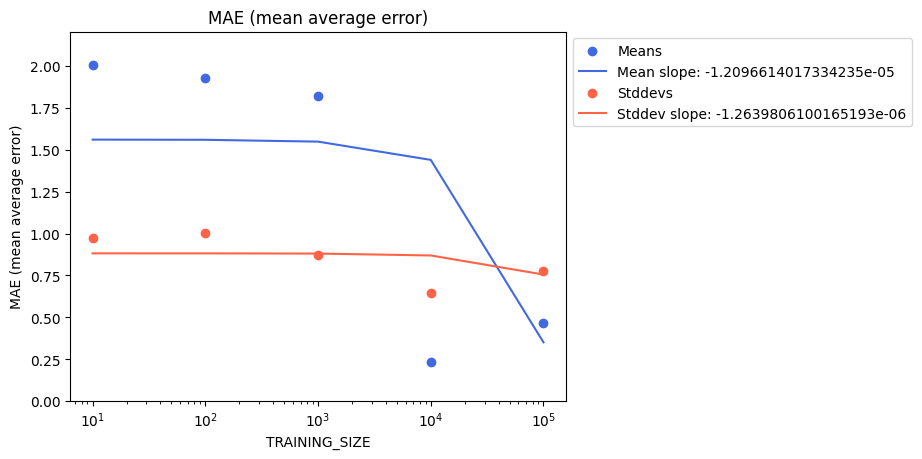
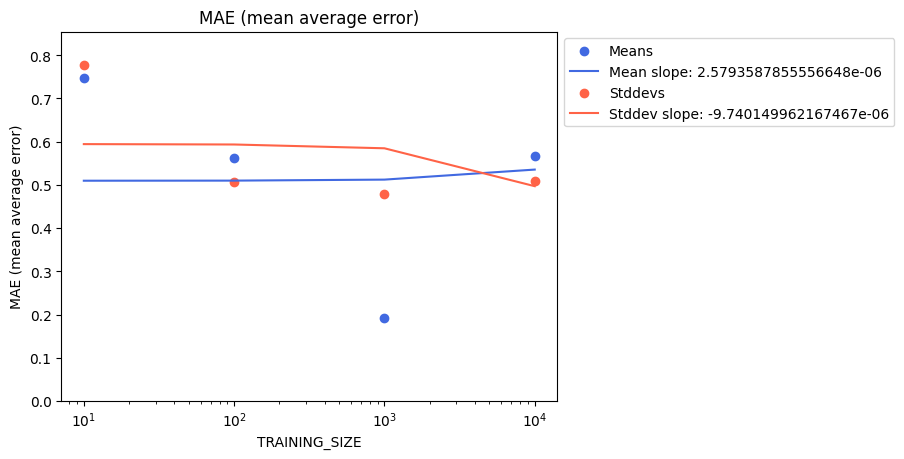
calculate and plot classification accuracy

diff --git a/performance.py b/performance.py
@@ -6,19 +6,30 @@ import time
 import torch
 import os
 import re
-from sklearn.metrics import mean_absolute_error, mean_absolute_percentage_error, r2_score
+from sklearn.metrics import mean_absolute_error, mean_absolute_percentage_error, r2_score, accuracy_score
 from torch.utils.data import DataLoader
 
 from env import CONFIG, HYPERPARAMETER, NUM_DIMENSIONS, DEVICE
 from build_model import build_model
 from train_multiple import get_dataloader
 from generate_data import DISTRIBUTION_FUNCTIONS
+from custom_functions import get_indices
 
 logger = logging.getLogger(__name__)
-logger.setLevel(logging.DEBUG)
+logger.setLevel(logging.INFO)
 console_handler = logging.StreamHandler()
 logger.addHandler(console_handler)
 
+# Regression: Graph how loss, R^2, and MAE varies with different sample sizes,
+# training sizes, epoch counts, and/or learning rate
+
+# Classification: Graph how accuracy, precision, recall, and F1 score
+# varies with different sample sizes, training sizes, epoch counts, and/or
+# learning rate
+# - there's overall accuracy, and then there's accuracy per class
+# - f1, precision, recall are only per class
+
+# regression performance
 def get_mae_mape_r2(model, desired):
     if desired == "mean":
         index = -2
@@ -55,7 +66,41 @@ def get_mae_mape_r2(model, desired):
             mean_absolute_percentage_error(actuals, guesses),
             r2_score(actuals, guesses))
 
-def create_png(name, x_values, means, stddevs):
+def get_accuracy(model):
+    index = get_indices(dists=True)
+    test_dataloader = get_dataloader(CONFIG, 'data/test_dataset',
+                                     examples_count=CONFIG['TEST_SIZE'])
+    model.eval()
+    actuals = []
+    guesses = []
+    with torch.no_grad():
+        for X, y in test_dataloader:
+            X, y = X.to(DEVICE).float(), y.to(DEVICE).float()
+            
+            # Extract actual distribution
+            actual_dist = y[0][index]
+            actuals.append(actual_dist)
+
+            # Get predicted distribution
+            pred = model(X)
+            predicted_dist = pred[0][index]
+            guesses.append(predicted_dist)
+
+            print(f'Actual: {actual_dist}, Predicted: {predicted_dist}')
+
+    # Convert lists of tensors to a single tensor
+    actuals = torch.stack(actuals)
+    guesses = torch.stack(guesses)
+
+    # Convert distributions to class labels
+    actual_labels = torch.argmax(actuals, dim=-1)
+    predictions = torch.argmax(guesses, dim=-1)
+
+    # Ensure compatibility with sklearn (convert to NumPy)
+    return accuracy_score(actual_labels.cpu().numpy(), predictions.cpu().numpy())
+
+# regression pngs
+def regression_png(name, x_values, means, stddevs):
     both = means + stddevs + [0]
     plt.ylim(min(both) * 1.1, max(both) * 1.1)
     plt.ylabel(name)
@@ -88,8 +133,30 @@ def create_png(name, x_values, means, stddevs):
     plt.savefig(destination, bbox_inches="tight")
     plt.show()
 
-# Goal: Graph how loss, R^2, and MAE varies with different sample sizes,
-# training sizes, epoch counts, and/or learning rate
+def classification_png(name, x_values, accuracies):
+    plt.ylim(min(accuracies) * 0.9, max(accuracies) * 1.1)
+    plt.ylabel(name)
+
+    x_values = np.float64(x_values)
+    sorted_indices = np.argsort(x_values)
+    x_values = x_values[sorted_indices]
+    accuracies = np.array(accuracies)[sorted_indices]
+
+    plt.scatter(x_values, accuracies, color="royalblue", label="Accuracies")
+    slope, intercept = np.polyfit(x_values, accuracies, deg=1)
+    trend = slope * x_values + intercept
+    plt.plot(x_values, trend, color="royalblue",
+             label=f'Slope: {slope}')
+
+    plt.gca().set_xscale('log')
+    plt.xlabel(HYPERPARAMETER)
+
+    plt.title(name)
+    plt.legend(bbox_to_anchor=(1,1), loc="upper left")
+    destination = f"results/{HYPERPARAMETER.lower()}_{name.replace(' ', '_')}.png"
+    plt.savefig(destination, bbox_inches="tight")
+    plt.show()
+
 def main():
     start = time.time()
 
@@ -116,6 +183,7 @@ def main():
     mean_r2s = []
     stddev_r2s = []
     hyperparams = []       # For matplotlib graphs
+    accuracies = []
     count = 0
     for filename in model_filenames:
         model_start = time.time()
@@ -153,11 +221,14 @@ def main():
         stddev_mapes.append(stddev_mape)
         stddev_r2s.append(stddev_r2)
 
+        accuracy = get_accuracy(model)
+        accuracies.append(accuracy)
         model_end = time.time()
         logger.info(f"{HYPERPARAMETER}={hyperparam}\t--> "
                     f"mean_mae={mean_mae:.2f},\tstddev_mae={stddev_mae:.2f} "
                     f"\n\t\t\t--> mean_mape={mean_mape:.2f},\tstddev_mape={stddev_mape:.2f}"
                     f"\n\t\t\t--> mean_r2={mean_r2:.2f},\tstddev_r2={stddev_r2:.2f} "
+                    f"accuracy={accuracy:.2f}"
                     f"(Finished in {model_end - model_start:.2f} seconds)")
 
     end = time.time()
@@ -165,12 +236,13 @@ def main():
     if count == 0:
         return
 
-    create_png("MAE (mean average error)",
+    regression_png("MAE (mean average error)",
                hyperparams, mean_maes, stddev_maes)
-    create_png("MAPE (mean average percentage error)",
+    regression_png("MAPE (mean average percentage error)",
                hyperparams, mean_mapes, stddev_mapes)
-    create_png("R^2 (correlation coefficient)",
+    regression_png("R^2 (correlation coefficient)",
                hyperparams, mean_r2s, stddev_r2s)
+    classification_png("Accuracy", hyperparams, accuracies)
 
 if __name__ == "__main__":
     main()

diff --git a/env.py b/env.py
@@ -2,7 +2,7 @@ CONFIG = {
         "TRAINING_SIZE": 1000,  # How many (data points, labels) examples to train on
         "TEST_SIZE": 100,       # To speed up regression_performance.py
         "SAMPLE_SIZE": 30,      # Size of input layer
-        "BATCH_SIZE": 100,       # How many examples to see before performing backpropagation
+        "BATCH_SIZE": 1,       # How many examples to see before performing backpropagation
         "EPOCHS": 10,            # How many times to repeat the training process per generated dataset
         "LEARNING_RATE": 1e-3,  # Learning rate, for optimizer
         }
